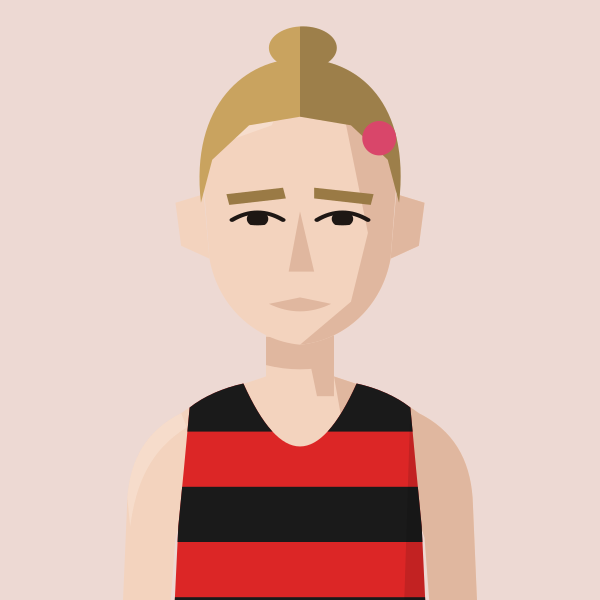
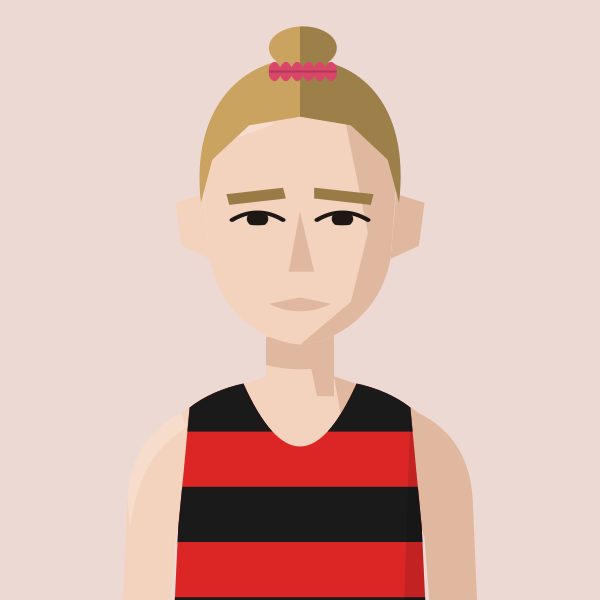
Megan Gildea's scrunchie drawn as a band round her bun
Claude-Session: https://claude.ai/code/session_01MgmDWhFqnSSnP4iBLKXUZC

Changed region(s): [[0.45, 0.09, 0.57, 0.15], [0.6, 0.18, 0.66, 0.27]]

diff --git a/tools/gen_portraits.py b/tools/gen_portraits.py
@@ -202,7 +202,9 @@ def figure(kit, mode="custom", skin=1, hair="crop", hair_colour="dark brown", fa
         hg.append('<path d="M66,70 Q100,58 134,70 L132,82 Q118,86 104,80 L100,77 L96,80 Q82,86 68,82 Z" fill="#2B3039"/>'
                   '<path d="M64,68 Q100,55 136,68 L135,72 Q100,60 65,72 Z" fill="#F4F4F2" opacity=".8"/>')
     if custom and scrunchie:
-        hg.append(f'<ellipse cx="128" cy="74" rx="6" ry="8" fill="{scrunchie}"/>')
+        if hair == "topknot":  # ruffled band around the base of the bun
+            hg.append(f'<path d="M89,41 q2,-5 4,0 q2,-5 4,0 q2,-5 4,0 q2,-5 4,0 q2,-5 4,0 q2,-5 4,0 L113,45 q-2,5 -4,0 q-2,5 -4,0 q-2,5 -4,0 q-2,5 -4,0 q-2,5 -4,0 q-2,5 -4,0 Z" fill="{scrunchie}"/>'
+                      f'<path d="M89,43 L113,43" stroke="#000" stroke-opacity=".18" stroke-width="1"/>')
     if custom and beanie:
         hg.append(f'<g fill="{beanie}"><path d="M62,98 C60,52 80,30 100,30 C120,30 140,52 138,98 Z"/></g>'
                   f'<g clip-path="url(#r{tag})" fill="#000" opacity=".15"><path d="M62,98 C60,52 80,30 100,30 C120,30 140,52 138,98 Z"/></g>'
